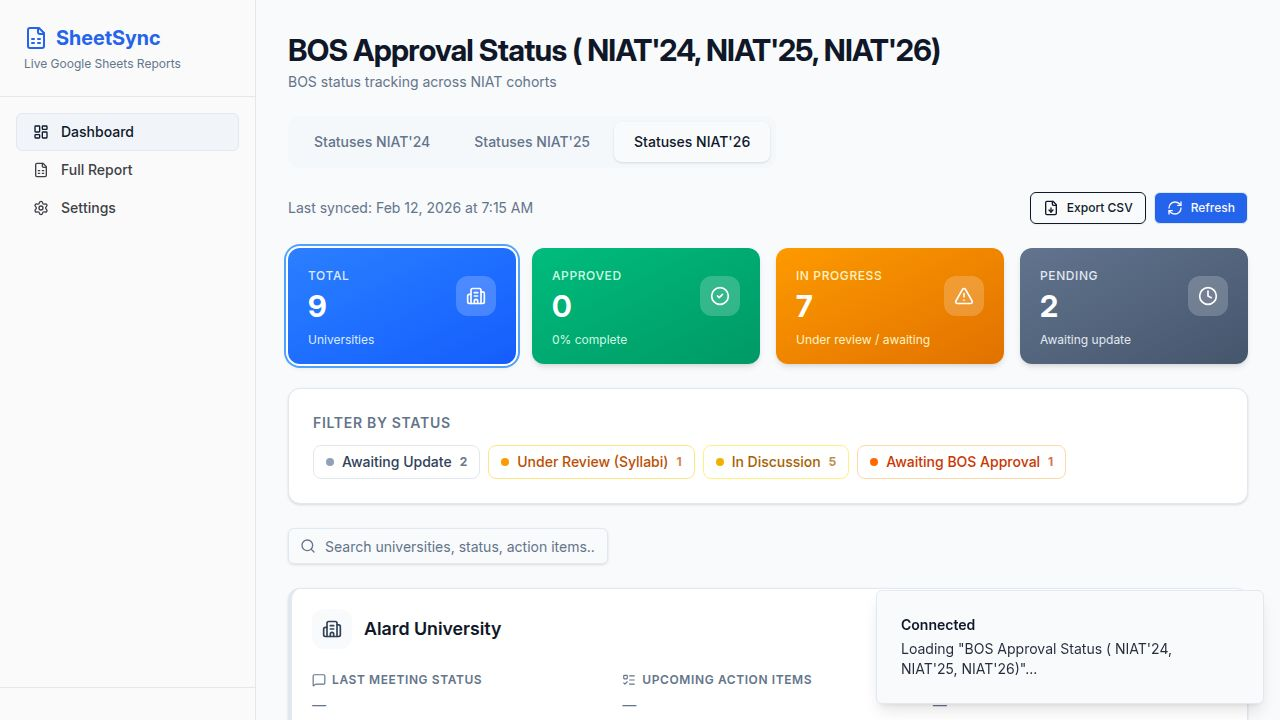
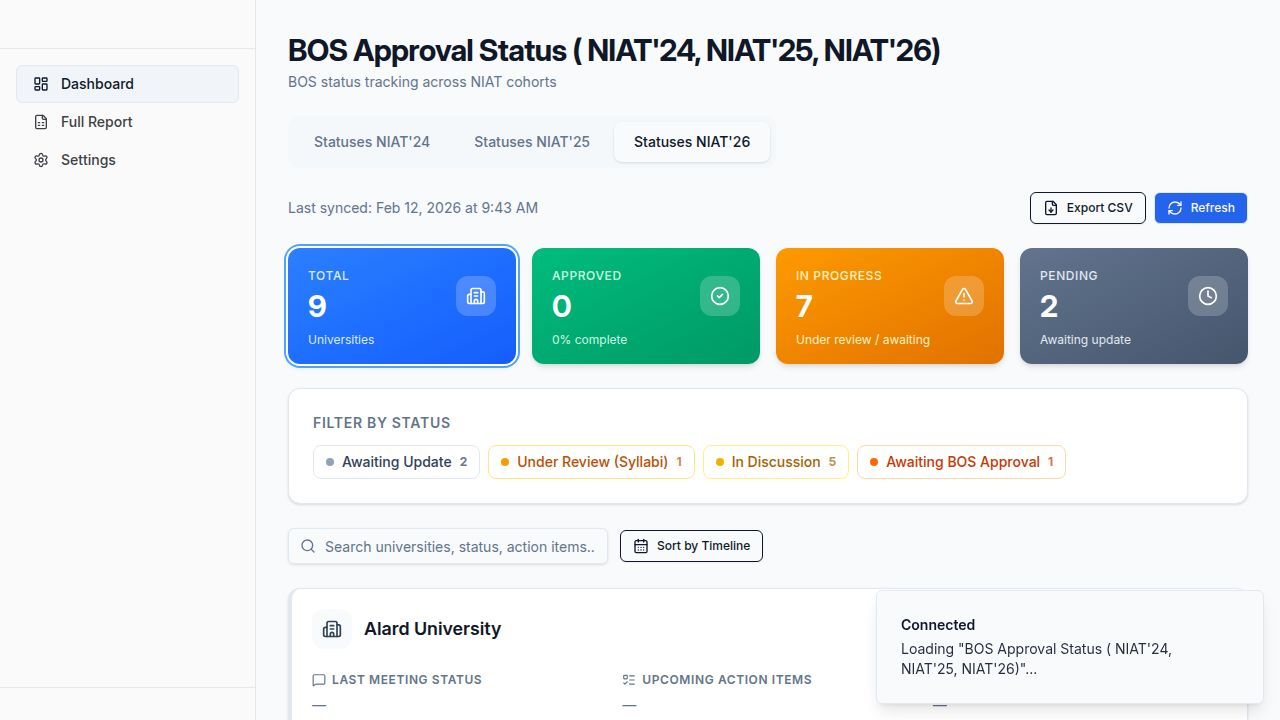
Add date sorting for timeline columns on the dashboard
Update the dashboard to include a "Sort by Timeline" button, enabling date-aware sorting for columns containing "timeline" in their name. This change modifies the data sorting logic in `dashboard.tsx` to correctly parse and compare date values.

Replit-Commit-Author: Agent
Replit-Commit-Session-Id: 3781f10f-6d29-47c9-8dad-7fc4f5ff4d01
Replit-Commit-Checkpoint-Type: full_checkpoint
Replit-Commit-Event-Id: 8c933f2e-6a4e-476b-bcd9-b0631192e098
Replit-Commit-Screenshot-Url: https://storage.googleapis.com/screenshot-production-us-central1/525a46b0-87df-4727-bde7-bc261525bb8a/3781f10f-6d29-47c9-8dad-7fc4f5ff4d01/YEBcgPy
Replit-Helium-Checkpoint-Created: true

diff --git a/client/src/pages/dashboard.tsx b/client/src/pages/dashboard.tsx
@@ -145,9 +145,15 @@ function NIATTabDashboard({ tabName, config, showAllColumns }: { tabName: string
     }
 
     if (sortConfig) {
+      const isDateCol = sortConfig.key.toLowerCase().includes("timeline");
       result.sort((a, b) => {
         const aVal = a[sortConfig.key] || "";
         const bVal = b[sortConfig.key] || "";
+        if (isDateCol) {
+          const aTime = Date.parse(aVal) || 0;
+          const bTime = Date.parse(bVal) || 0;
+          return sortConfig.direction === "asc" ? aTime - bTime : bTime - aTime;
+        }
         return sortConfig.direction === "asc" ? aVal.localeCompare(bVal) : bVal.localeCompare(aVal);
       });
     }
@@ -336,15 +342,41 @@ function NIATTabDashboard({ tabName, config, showAllColumns }: { tabName: string
         </CardContent>
       </Card>
 
-      <div className="relative w-full md:w-80">
-        <Search className="absolute left-3 top-2.5 h-4 w-4 text-muted-foreground" />
-        <Input
-          placeholder="Search universities, status, action items..."
-          className="pl-9 h-9"
-          value={searchTerm}
-          onChange={(e) => setSearchTerm(e.target.value)}
-          data-testid="input-search"
-        />
+      <div className="flex flex-col sm:flex-row gap-3 items-start sm:items-center">
+        <div className="relative w-full md:w-80">
+          <Search className="absolute left-3 top-2.5 h-4 w-4 text-muted-foreground" />
+          <Input
+            placeholder="Search universities, status, action items..."
+            className="pl-9 h-9"
+            value={searchTerm}
+            onChange={(e) => setSearchTerm(e.target.value)}
+            data-testid="input-search"
+          />
+        </div>
+        <Button
+          variant={sortConfig?.key.toLowerCase().includes("timeline") ? "default" : "outline"}
+          size="sm"
+          className="gap-2 shrink-0"
+          onClick={() => {
+            const timelineCol = displayColumns.find(c => c.toLowerCase().includes("timeline")) || "Timeline to Close - Action Items";
+            if (sortConfig?.key === timelineCol) {
+              if (sortConfig.direction === "asc") {
+                setSortConfig({ key: timelineCol, direction: "desc" });
+              } else {
+                setSortConfig(null);
+              }
+            } else {
+              setSortConfig({ key: timelineCol, direction: "asc" });
+            }
+          }}
+          data-testid="button-sort-timeline"
+        >
+          <CalendarDays className="w-3.5 h-3.5" />
+          Sort by Timeline
+          {sortConfig?.key.toLowerCase().includes("timeline") && (
+            <span className="text-xs">{sortConfig.direction === "asc" ? "(Earliest)" : "(Latest)"}</span>
+          )}
+        </Button>
       </div>
 
       {(statusFilter !== "all" || searchTerm) && (
